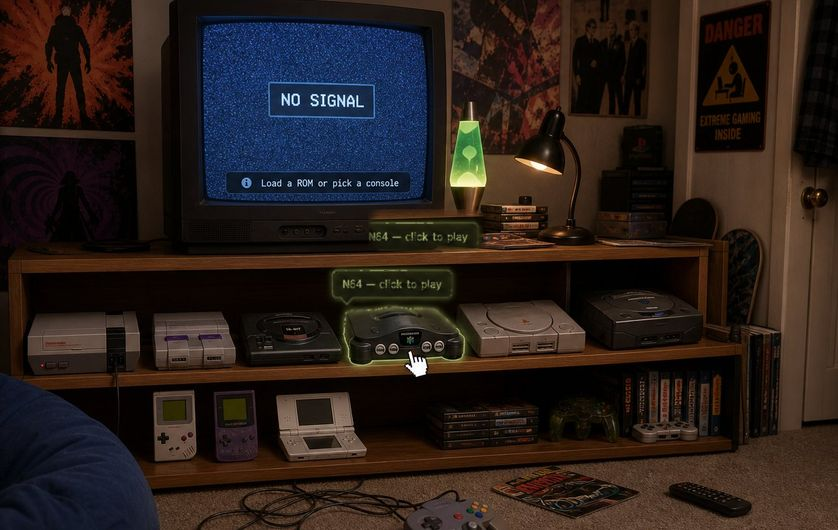
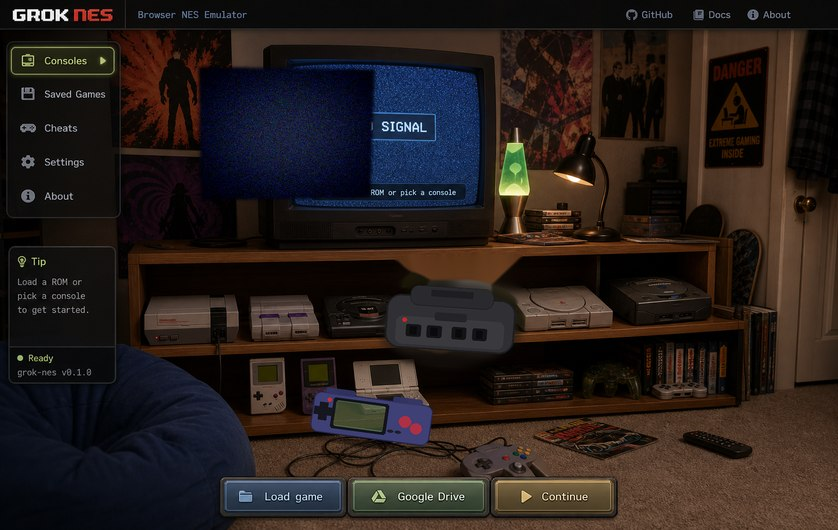
feat: bedroom visual redo — clean plate, SVG silhouettes, CRT HUD
Remove baked mock chrome from the room JPEG (hand cursor, N64
click-to-play labels/outline) via inpainting; rebuild CRT glass static;
composite a GBA onto the handheld shelf. Replace rectangular green
hotspots with console-shaped SVG path strokes for live systems only.
Perspective-align the NO SIGNAL / AV-1 HUD inside the CRT glass.
Coming-soon consoles stay visible without play outlines or tips.
Bump service worker to gameroom-v13.

diff --git a/index.html b/index.html
@@ -80,7 +80,7 @@
       </nav>
       <div class="side-nav-status">
         <p class="side-tip"><span aria-hidden="true">💡</span> Load a ROM or pick a console to get started.</p>
-        <p class="side-ready"><span class="dot on" aria-hidden="true"></span> Ready <span class="side-ver">gameroom-v12</span></p>
+        <p class="side-ready"><span class="dot on" aria-hidden="true"></span> Ready <span class="side-ver">gameroom-v13</span></p>
       </div>
     </aside>
 
@@ -99,47 +99,51 @@
         />
 
         <div class="room-tv-hud" id="room-tv-screen" data-signal="off">
-          <div class="no-signal" id="no-signal">
-            <span class="no-signal-snow" aria-hidden="true"></span>
-            <span class="no-signal-scan" aria-hidden="true"></span>
-            <strong>NO SIGNAL</strong>
-            <span class="no-signal-sub" id="room-tv-sub">Load a ROM or pick a console</span>
+          <div class="room-tv-hud-plane">
+            <div class="no-signal" id="no-signal">
+              <span class="no-signal-snow" aria-hidden="true"></span>
+              <span class="no-signal-scan" aria-hidden="true"></span>
+              <strong>NO SIGNAL</strong>
+              <span class="no-signal-sub" id="room-tv-sub">Load a ROM or pick a console</span>
+            </div>
           </div>
         </div>
 
         <div class="hotspots" id="sys-grid" role="list">
-          <!-- Middle shelf: home consoles (calibrated to bedroom-scene.jpg) -->
-          <button type="button" class="sys-card hotspot" style="--x:4%;--y:59%;--w:11%;--h:11%" data-sys="nes" role="listitem" aria-label="NES — click to play" data-tip="NES — click to play">
+          <!-- Middle shelf: home consoles — SVG silhouettes for live systems only -->
+          <button type="button" class="sys-card hotspot" style="--x:3.5%;--y:57.5%;--w:13%;--h:13%" data-sys="nes" role="listitem" aria-label="NES — click to play" data-tip="NES — click to play">
+            <svg class="hotspot-sil" viewBox="0 0 120 70" preserveAspectRatio="none" aria-hidden="true"><path d="M6,22 L114,16 L116,58 L8,64 Z"/></svg>
             <span class="hotspot-label">NES — click to play</span>
           </button>
-          <button type="button" class="sys-card hotspot" style="--x:19%;--y:58.5%;--w:9.5%;--h:11%" data-sys="snes" role="listitem" aria-label="SNES — click to play" data-tip="SNES — click to play">
+          <button type="button" class="sys-card hotspot" style="--x:17.5%;--y:56.5%;--w:12%;--h:13.5%" data-sys="snes" role="listitem" aria-label="SNES — click to play" data-tip="SNES — click to play">
+            <svg class="hotspot-sil" viewBox="0 0 120 70" preserveAspectRatio="none" aria-hidden="true"><path d="M8,26 C30,12 90,12 112,24 L110,58 C88,70 30,70 10,60 Z"/></svg>
             <span class="hotspot-label">SNES — click to play</span>
           </button>
-          <button type="button" class="sys-card hotspot" style="--x:30.5%;--y:56.5%;--w:10%;--h:12.5%" data-sys="genesis" role="listitem" aria-label="Genesis — click to play" data-tip="Genesis — click to play">
+          <button type="button" class="sys-card hotspot" style="--x:29.5%;--y:55%;--w:12%;--h:14.5%" data-sys="genesis" role="listitem" aria-label="Genesis — click to play" data-tip="Genesis — click to play">
+            <svg class="hotspot-sil" viewBox="0 0 120 80" preserveAspectRatio="none" aria-hidden="true"><path d="M18,34 C18,14 102,14 102,34 L108,62 C108,72 12,72 12,62 Z M40,18 C40,6 80,6 80,18"/></svg>
             <span class="hotspot-label">Genesis — click to play</span>
           </button>
-          <button type="button" class="sys-card hotspot is-soon" style="--x:41%;--y:54.5%;--w:12.5%;--h:14%" data-soon="n64" role="listitem" aria-label="N64 — coming soon" data-tip="N64 — coming soon" aria-disabled="true">
-            <span class="hotspot-label">N64 — coming soon</span>
+          <button type="button" class="sys-card hotspot is-soon" style="--x:42%;--y:54%;--w:13%;--h:15%" data-soon="n64" role="listitem" aria-label="N64 — coming soon" aria-disabled="true" tabindex="-1">
           </button>
-          <button type="button" class="sys-card hotspot is-soon" style="--x:54.5%;--y:56%;--w:13%;--h:12.5%" data-soon="ps1" role="listitem" aria-label="PlayStation — coming soon" data-tip="PS1 — coming soon" aria-disabled="true">
-            <span class="hotspot-label">PS1 — coming soon</span>
+          <button type="button" class="sys-card hotspot is-soon" style="--x:55.5%;--y:55.5%;--w:13%;--h:13.5%" data-soon="ps1" role="listitem" aria-label="PlayStation — coming soon" aria-disabled="true" tabindex="-1">
           </button>
-          <button type="button" class="sys-card hotspot is-soon" style="--x:68.5%;--y:54.5%;--w:12.5%;--h:13.5%" data-soon="saturn" role="listitem" aria-label="Sega Saturn — coming soon" data-tip="Saturn — coming soon" aria-disabled="true">
-            <span class="hotspot-label">Saturn — coming soon</span>
+          <button type="button" class="sys-card hotspot is-soon" style="--x:69%;--y:54%;--w:13%;--h:14.5%" data-soon="saturn" role="listitem" aria-label="Sega Saturn — coming soon" aria-disabled="true" tabindex="-1">
           </button>
 
-          <!-- Bottom shelf: handhelds -->
-          <button type="button" class="sys-card hotspot hotspot--hand" style="--x:14%;--y:72%;--w:10.5%;--h:14%" data-sys="gb" role="listitem" aria-label="Game Boy — click to play" data-tip="Game Boy — click to play">
+          <!-- Bottom shelf: handhelds — GB / GBC / composited GBA / DS -->
+          <button type="button" class="sys-card hotspot hotspot--hand" style="--x:12%;--y:71%;--w:8.5%;--h:16%" data-sys="gb" role="listitem" aria-label="Game Boy — click to play" data-tip="Game Boy — click to play">
+            <svg class="hotspot-sil" viewBox="0 0 70 110" preserveAspectRatio="none" aria-hidden="true"><path d="M14,6 H56 Q64,6 64,16 V96 Q64,106 54,106 H16 Q6,106 6,96 V16 Q6,6 14,6 Z"/></svg>
             <span class="hotspot-label">Game Boy — click to play</span>
           </button>
-          <button type="button" class="sys-card hotspot hotspot--hand" style="--x:29%;--y:73%;--w:10.5%;--h:13%" data-sys="gbc" role="listitem" aria-label="Game Boy Color — click to play" data-tip="GBC — click to play">
+          <button type="button" class="sys-card hotspot hotspot--hand" style="--x:24%;--y:71.5%;--w:8%;--h:15.5%" data-sys="gbc" role="listitem" aria-label="Game Boy Color — click to play" data-tip="GBC — click to play">
+            <svg class="hotspot-sil" viewBox="0 0 70 110" preserveAspectRatio="none" aria-hidden="true"><path d="M16,8 H54 Q62,8 62,18 V94 Q62,104 52,104 H18 Q8,104 8,94 V18 Q8,8 16,8 Z"/></svg>
             <span class="hotspot-label">GBC — click to play</span>
           </button>
-          <button type="button" class="sys-card hotspot hotspot--hand" style="--x:46%;--y:71.5%;--w:12%;--h:14%" data-sys="gba" role="listitem" aria-label="Game Boy Advance — click to play" data-tip="GBA — click to play">
+          <button type="button" class="sys-card hotspot hotspot--hand" style="--x:35.5%;--y:72%;--w:14%;--h:11%" data-sys="gba" role="listitem" aria-label="Game Boy Advance — click to play" data-tip="GBA — click to play">
+            <svg class="hotspot-sil" viewBox="0 0 140 70" preserveAspectRatio="none" aria-hidden="true"><path d="M10,18 H130 Q138,18 138,28 V48 Q138,58 128,58 H12 Q4,58 4,48 V28 Q4,18 10,18 Z"/></svg>
             <span class="hotspot-label">GBA — click to play</span>
           </button>
-          <button type="button" class="sys-card hotspot hotspot--hand is-soon" style="--x:58.5%;--y:72%;--w:10%;--h:13%" data-soon="nds" role="listitem" aria-label="Nintendo DS — coming soon" data-tip="DS — coming soon" aria-disabled="true">
-            <span class="hotspot-label">DS — coming soon</span>
+          <button type="button" class="sys-card hotspot hotspot--hand is-soon" style="--x:50%;--y:70%;--w:12%;--h:15%" data-soon="nds" role="listitem" aria-label="Nintendo DS — coming soon" aria-disabled="true" tabindex="-1">
           </button>
         </div>
       </div>

diff --git a/css/style.css b/css/style.css
@@ -2091,15 +2091,27 @@ body.view-home .tag {
 
 .room-tv-hud {
   position: absolute;
-  left: 20.5%;
-  top: 10%;
-  width: 27.5%;
-  height: 30%;
-  border-radius: 6px;
-  overflow: hidden;
-  pointer-events: none;
+  /* Sit inside CRT glass plane of cleaned bedroom-scene.jpg */
+  left: 23.2%;
+  top: 12.4%;
+  width: 21.8%;
+  height: 26.2%;
   z-index: 2;
-  box-shadow: inset 0 0 24px rgba(0, 0, 0, 0.45);
+  pointer-events: none;
+  perspective: 900px;
+  perspective-origin: 50% 40%;
+}
+.room-tv-hud-plane {
+  position: absolute;
+  inset: 0;
+  border-radius: 10% / 14%;
+  overflow: hidden;
+  transform: rotateY(-7deg) rotateX(5deg) skewX(-1.5deg) scale(1.02, 1.04);
+  transform-origin: 50% 55%;
+  box-shadow:
+    inset 0 0 18px rgba(0, 0, 0, 0.55),
+    inset 0 0 2px rgba(180, 220, 255, 0.25);
+  background: rgba(6, 10, 18, 0.12);
 }
 .room-tv-hud .no-signal {
   position: absolute;
@@ -2110,36 +2122,37 @@ body.view-home .tag {
   gap: 6px;
   padding: 8px;
   text-align: center;
-  background: rgba(8, 12, 20, 0.18);
+  background: rgba(8, 12, 20, 0.12);
 }
 .room-tv-hud .no-signal strong {
   position: relative;
   z-index: 1;
-  font-size: clamp(10px, 1.6vw, 18px);
-  letter-spacing: 0.18em;
-  padding: 6px 10px;
-  border: 1px solid rgba(255, 255, 255, 0.7);
-  background: rgba(10, 12, 16, 0.72);
-  border-radius: 4px;
+  font-size: clamp(9px, 1.35vw, 15px);
+  letter-spacing: 0.16em;
+  padding: 5px 9px;
+  border: 1px solid rgba(255, 255, 255, 0.72);
+  background: rgba(10, 12, 16, 0.78);
+  border-radius: 3px;
+  transform: rotateX(2deg);
 }
 .room-tv-hud .no-signal-sub {
   position: absolute;
-  left: 8%;
-  right: 8%;
-  bottom: 8%;
+  left: 7%;
+  right: 7%;
+  bottom: 9%;
   z-index: 1;
-  font-size: clamp(8px, 1vw, 11px);
-  padding: 4px 8px;
+  font-size: clamp(7px, 0.85vw, 10px);
+  padding: 3px 7px;
   border-radius: 999px;
-  background: rgba(0, 0, 0, 0.62);
+  background: rgba(0, 0, 0, 0.66);
   color: #e8ecf4;
   letter-spacing: 0.02em;
 }
 .room-tv-hud .no-signal-snow {
   position: absolute;
-  inset: -10%;
+  inset: -12%;
   z-index: 0;
-  opacity: 0.55;
+  opacity: 0.42;
   background:
     repeating-linear-gradient(0deg, #9ab 0 1px, #234 1px 2px),
     repeating-linear-gradient(90deg, #bcd 0 1px, #123 1px 3px);
@@ -2158,7 +2171,7 @@ body.view-home .tag {
   );
   background-size: 100% 28%;
   animation: scan-drift 2.8s linear infinite;
-  opacity: 0.5;
+  opacity: 0.45;
   pointer-events: none;
 }
 @keyframes snow-shift {
@@ -2189,8 +2202,8 @@ body.view-home .tag {
   margin: 0;
   padding: 0;
   min-height: 0;
-  border-radius: 6px;
-  border: 1px solid transparent;
+  border-radius: 0;
+  border: none;
   background: transparent;
   box-shadow: none;
   cursor: pointer;
@@ -2202,6 +2215,45 @@ body.view-home .tag {
 .room.room--photo .sys-card.hotspot .sys-kicker,
 .room.room--photo .sys-card.hotspot .sys-desc,
 .room.room--photo .sys-card.hotspot .console-art { display: none; }
+
+/* Console-shaped silhouette stroke (live systems only) */
+.hotspot-sil {
+  position: absolute;
+  inset: 0;
+  width: 100%;
+  height: 100%;
+  overflow: visible;
+  pointer-events: none;
+  z-index: 1;
+}
+.hotspot-sil path {
+  fill: transparent;
+  stroke: transparent;
+  stroke-width: 2.4;
+  stroke-linejoin: round;
+  stroke-linecap: round;
+  vector-effect: non-scaling-stroke;
+  transition: stroke 0.12s ease, fill 0.12s ease, filter 0.12s ease;
+  filter: none;
+}
+.room.room--photo .sys-card.hotspot:hover .hotspot-sil path,
+.room.room--photo .sys-card.hotspot:focus-visible .hotspot-sil path,
+.room.room--photo .sys-card.hotspot.selected .hotspot-sil path {
+  stroke: var(--phosphor);
+  fill: rgba(184, 240, 20, 0.07);
+  filter:
+    drop-shadow(0 0 4px rgba(184, 240, 20, 0.85))
+    drop-shadow(0 0 10px rgba(184, 240, 20, 0.45));
+}
+/* Kill old rectangular hotspot chrome */
+.room.room--photo .sys-card.hotspot:hover,
+.room.room--photo .sys-card.hotspot:focus-visible,
+.room.room--photo .sys-card.hotspot.selected {
+  border: none;
+  background: transparent;
+  box-shadow: none;
+  filter: none;
+}
 
 .hotspot-label {
   position: absolute;
@@ -2232,42 +2284,30 @@ body.view-home .tag {
   border: 6px solid transparent;
   border-top-color: var(--phosphor);
 }
-
-.room.room--photo .sys-card.hotspot:hover,
-.room.room--photo .sys-card.hotspot:focus-visible,
-.room.room--photo .sys-card.hotspot.selected {
-  border-color: var(--phosphor);
-  background: rgba(184, 240, 20, 0.05);
-  box-shadow:
-    0 0 0 1px rgba(184, 240, 20, 0.55),
-    0 0 14px rgba(184, 240, 20, 0.4),
-    inset 0 0 10px rgba(184, 240, 20, 0.1);
-  filter: drop-shadow(0 0 4px rgba(184, 240, 20, 0.5));
-}
 .room.room--photo .sys-card.hotspot:hover .hotspot-label,
 .room.room--photo .sys-card.hotspot:focus-visible .hotspot-label,
 .room.room--photo .sys-card.hotspot.selected .hotspot-label {
   opacity: 1;
   transform: translateX(-50%) translateY(0);
 }
+
+/* Coming-soon: visible in plate, non-interactive, no play outline / no tip */
 .room.room--photo .sys-card.hotspot.is-soon {
-  opacity: 0.72;
-  cursor: not-allowed;
-  filter: grayscale(0.35) brightness(0.9);
+  opacity: 1;
+  cursor: default;
+  filter: none;
+  pointer-events: none;
 }
 .room.room--photo .sys-card.hotspot.is-soon:hover,
 .room.room--photo .sys-card.hotspot.is-soon:focus-visible {
-  border-color: rgba(148, 163, 184, 0.7);
-  box-shadow: 0 0 0 1px rgba(148, 163, 184, 0.35);
-  filter: grayscale(0.2) brightness(0.95);
-  background: rgba(148, 163, 184, 0.08);
+  border: none;
+  box-shadow: none;
+  filter: none;
+  background: transparent;
 }
+.room.room--photo .sys-card.hotspot.is-soon .hotspot-sil,
 .room.room--photo .sys-card.hotspot.is-soon .hotspot-label {
-  color: #cbd5e1;
-  border-color: #94a3b8;
-}
-.room.room--photo .sys-card.hotspot.is-soon .hotspot-label::after {
-  border-top-color: #94a3b8;
+  display: none !important;
 }
 
 .mock-actions {

diff --git a/sw.js b/sw.js
@@ -1,5 +1,5 @@
 /* Cache the static shell. ROM bytes and Drive traffic are never stored here. */
-const CACHE = "gameroom-v12";
+const CACHE = "gameroom-v13";
 const PRECACHE = [
   "/",
   "/index.html",

diff --git a/assets/room/ART.md b/assets/room/ART.md
@@ -1,0 +1,15 @@
+# Bedroom scene art (v13)
+
+## Approach
+
+**Cleaned photo plate + CSS/SVG chrome** (not another hotspot percentage tweak).
+
+1. **Clean plate** — Started from `assets/mock/bedroom-north-star.png` (guide mock). OpenCV inpainting removed baked mock UI: phosphor tooltip, green N64 outline glow, and white hand cursor. CRT glass was rebuilt with matched static (no baked `NO SIGNAL` / info bar). A grain-matched illustrated **GBA** was composited onto the bottom shelf (photo had GB / GBC / DS only). A soft illustrated **N64** cover restores a normal coming-soon console where inpainting blurred the body. Exports: `bedroom-scene.jpg` (1290×816) and `bedroom-scene-sm.jpg` (838×530). Regenerator (local, gitignored `tools/`): `clean_bedroom_plate.py`.
+
+2. **Console-shaped hotspots** — Live systems (NES, SNES, Genesis, GB, GBC, GBA) use inline SVG `<path>` silhouettes (`.hotspot-sil`). Phosphor stroke + soft fill appear only on `:hover` / `:focus-visible` / `.selected`. Rectangular green boxes removed. Coming-soon (N64, PS1, Saturn, DS) stay visible in the plate, `pointer-events: none`, no silhouette, no click-to-play tip.
+
+3. **CRT HUD** — `#room-tv-screen` uses a nested `.room-tv-hud-plane` with `perspective` + `rotateY` / `rotateX` / `skewX` so NO SIGNAL / AV-1 copy sits in the glass plane.
+
+## SW
+
+`gameroom-v13` — precache already lists both room JPEGs.
